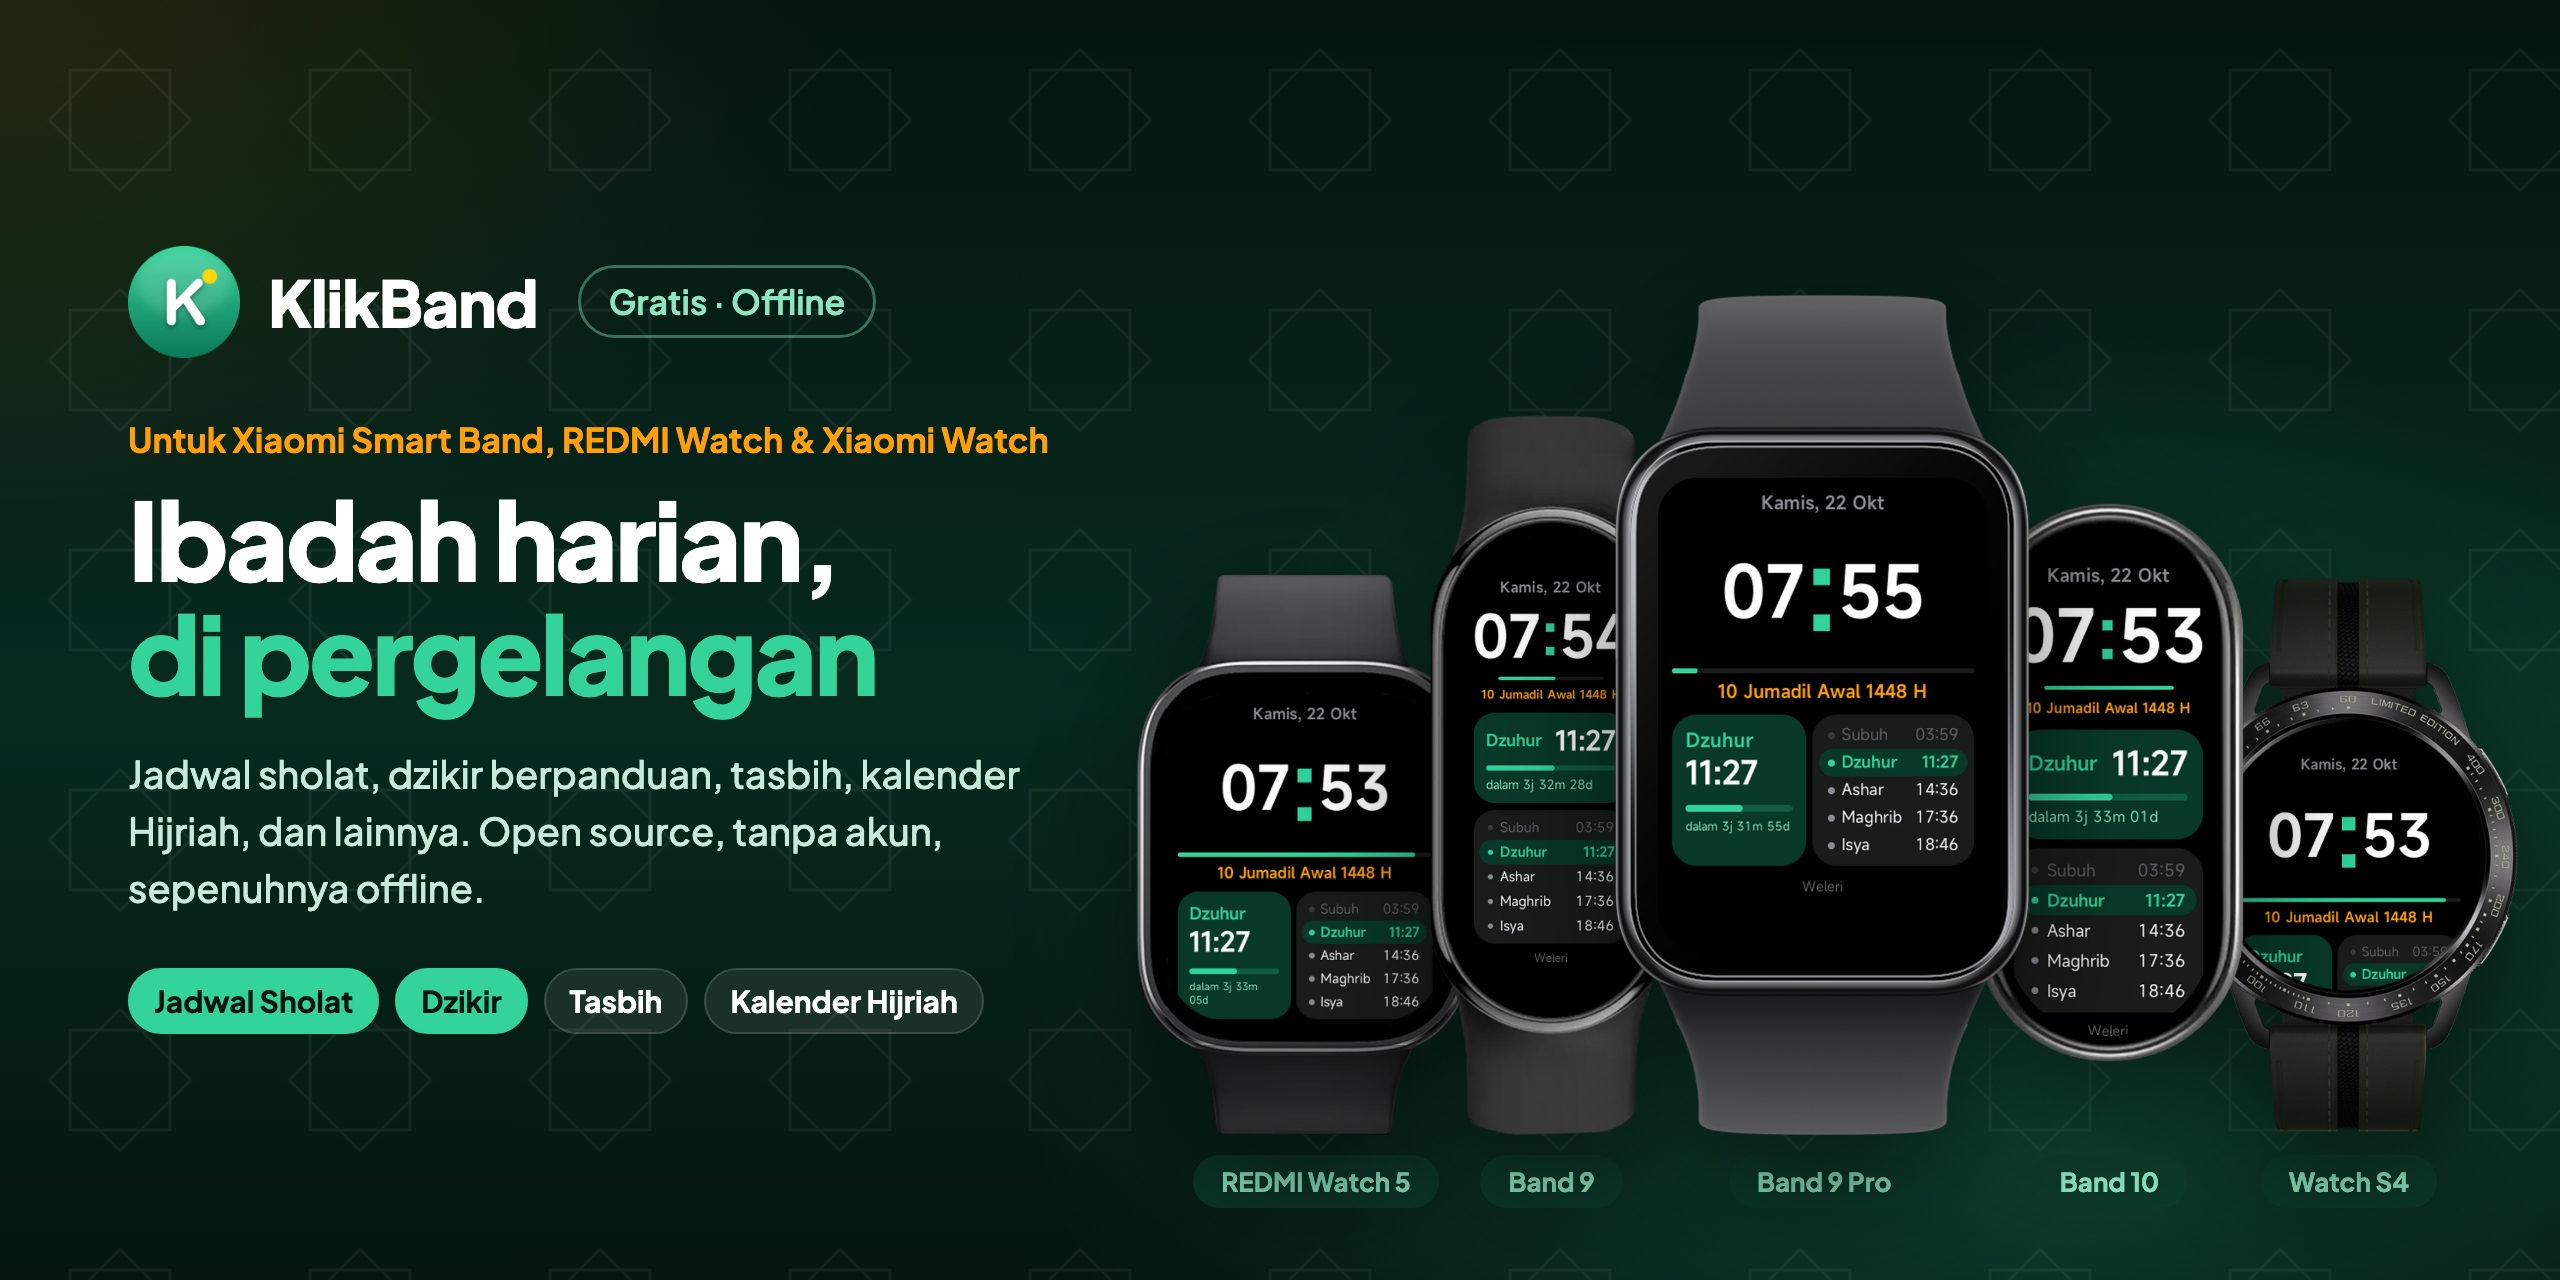
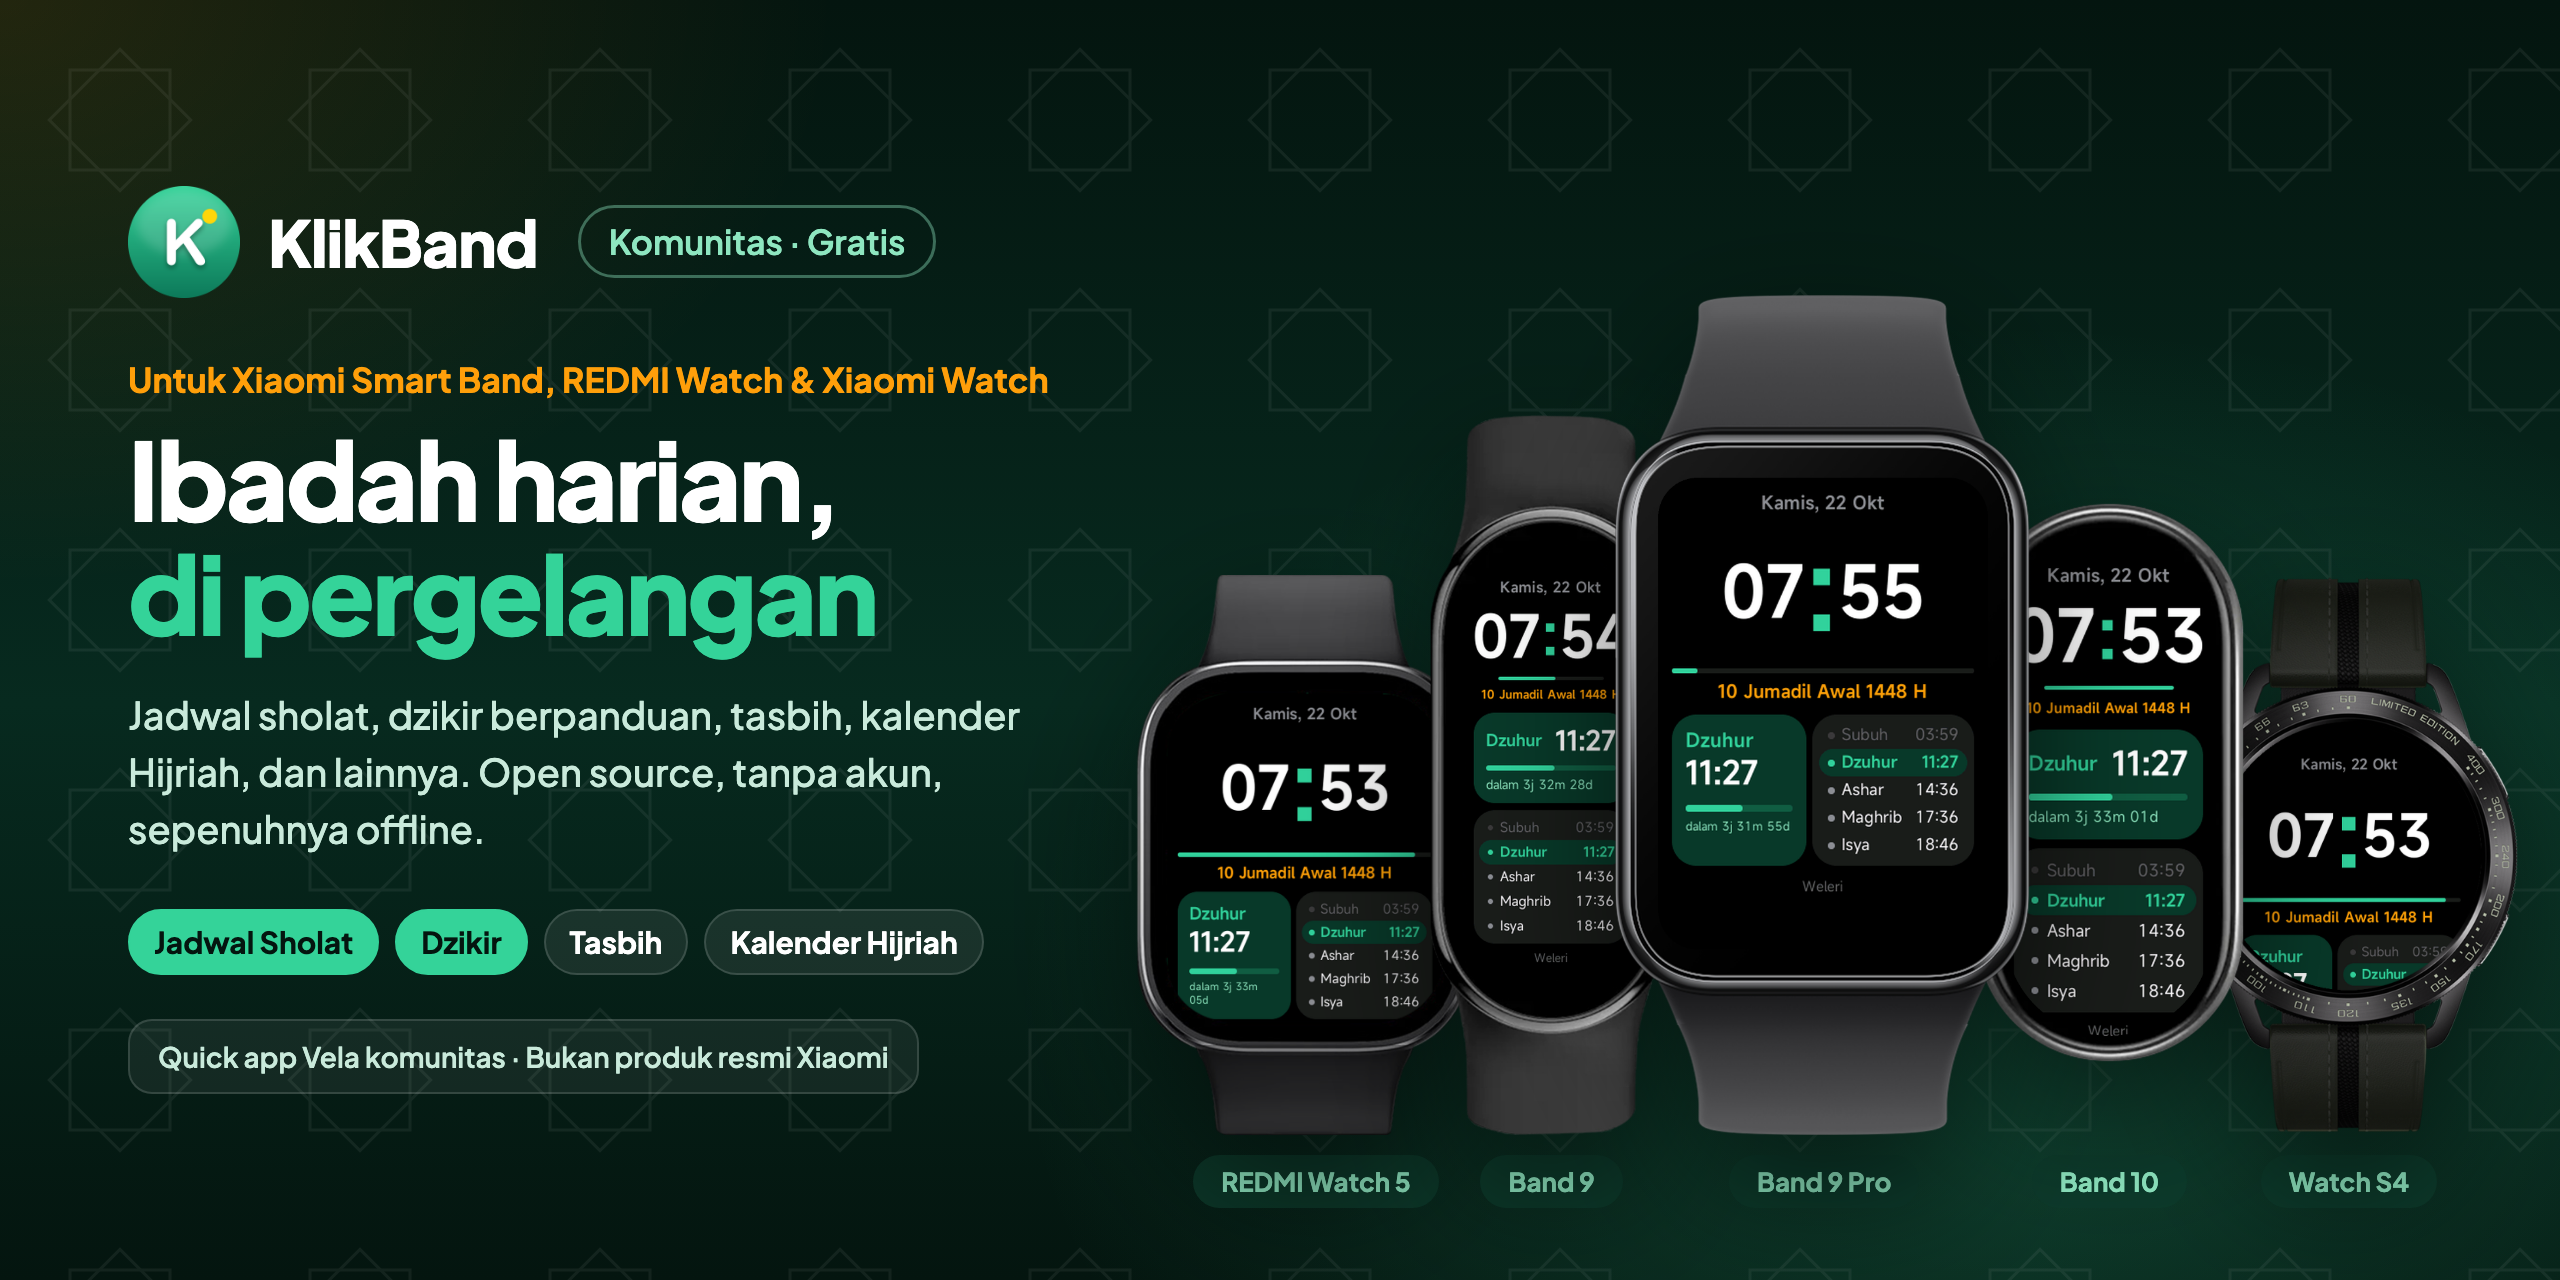
Say plainly that KlikBand is an unofficial community app
The READMEs and the header now state that KlikBand is a community-made
Xiaomi Vela quick app, not made, endorsed or supported by Xiaomi.

Changed region(s): [[0.0312, 0.125, 0.4062, 0.8438]]

diff --git a/README.id.md b/README.id.md
@@ -7,6 +7,10 @@
 </p>
 
 <p align="center">
+  ⚠ <b>Tidak resmi.</b> KlikBand adalah quick app Xiaomi Vela buatan komunitas. Tidak dibuat, didukung, maupun disahkan oleh Xiaomi.
+</p>
+
+<p align="center">
   <a href="https://github.com/ashafizullah/klikband/releases/latest"><img src="https://img.shields.io/github/v/release/ashafizullah/klikband?label=release" alt="Release"></a>
   <a href="https://github.com/ashafizullah/klikband/releases"><img src="https://img.shields.io/github/downloads/ashafizullah/klikband/total?color=1fa77a" alt="Downloads"></a>
   <a href="LICENSE"><img src="https://img.shields.io/github/license/ashafizullah/klikband?color=blue" alt="MIT License"></a>

diff --git a/README.md b/README.md
@@ -7,6 +7,10 @@
 </p>
 
 <p align="center">
+  ⚠ <b>Unofficial.</b> KlikBand is a community-made Xiaomi Vela quick app. It is not made, endorsed or supported by Xiaomi.
+</p>
+
+<p align="center">
   <a href="https://github.com/ashafizullah/klikband/releases/latest"><img src="https://img.shields.io/github/v/release/ashafizullah/klikband?label=release" alt="Release"></a>
   <a href="https://github.com/ashafizullah/klikband/releases"><img src="https://img.shields.io/github/downloads/ashafizullah/klikband/total?color=1fa77a" alt="Downloads"></a>
   <a href="LICENSE"><img src="https://img.shields.io/github/license/ashafizullah/klikband?color=blue" alt="MIT License"></a>

diff --git a/README.zh.md b/README.zh.md
@@ -7,6 +7,10 @@
 </p>
 
 <p align="center">
+  ⚠ <b>非官方。</b>KlikBand 是社区制作的小米 Vela 快应用，并非小米制作、认可或提供支持。
+</p>
+
+<p align="center">
   <a href="https://github.com/ashafizullah/klikband/releases/latest"><img src="https://img.shields.io/github/v/release/ashafizullah/klikband?label=release" alt="Release"></a>
   <a href="https://github.com/ashafizullah/klikband/releases"><img src="https://img.shields.io/github/downloads/ashafizullah/klikband/total?color=1fa77a" alt="Downloads"></a>
   <a href="LICENSE"><img src="https://img.shields.io/github/license/ashafizullah/klikband?color=blue" alt="MIT License"></a>
